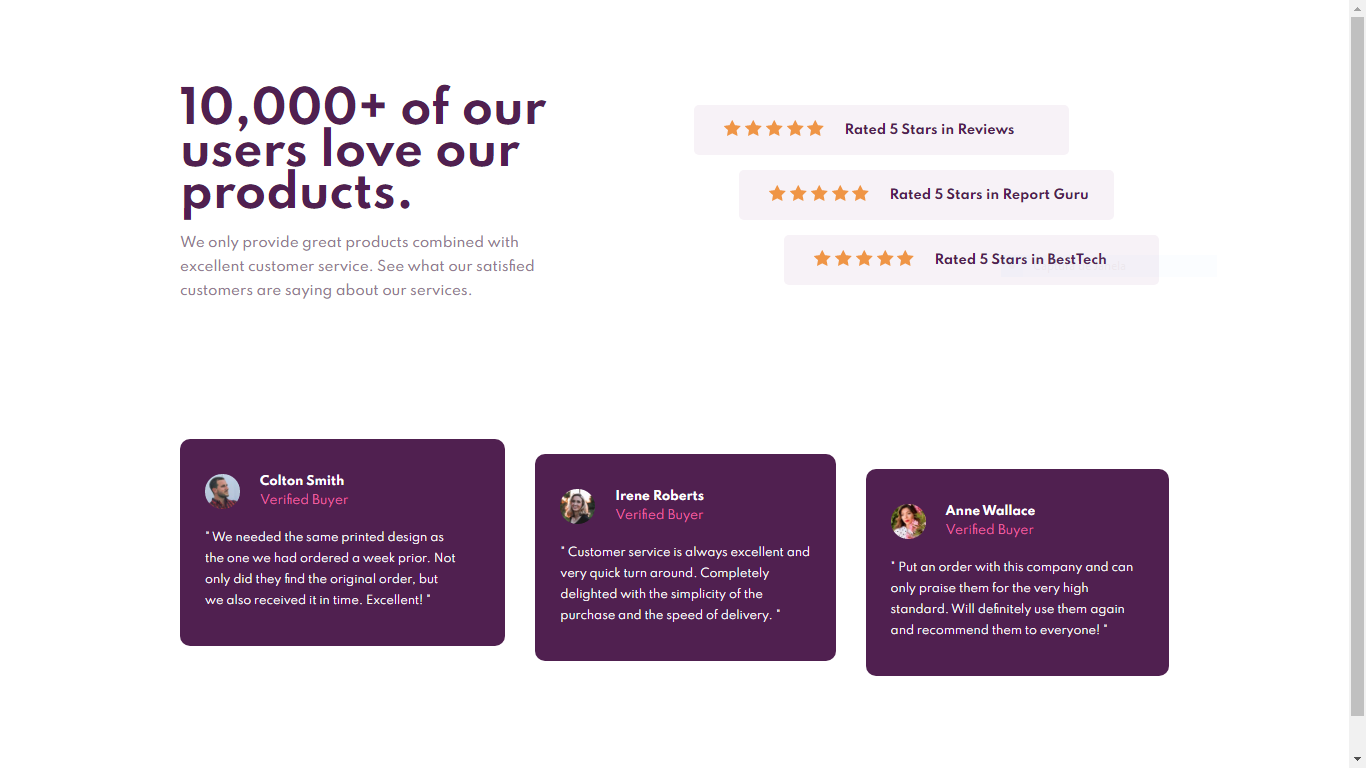
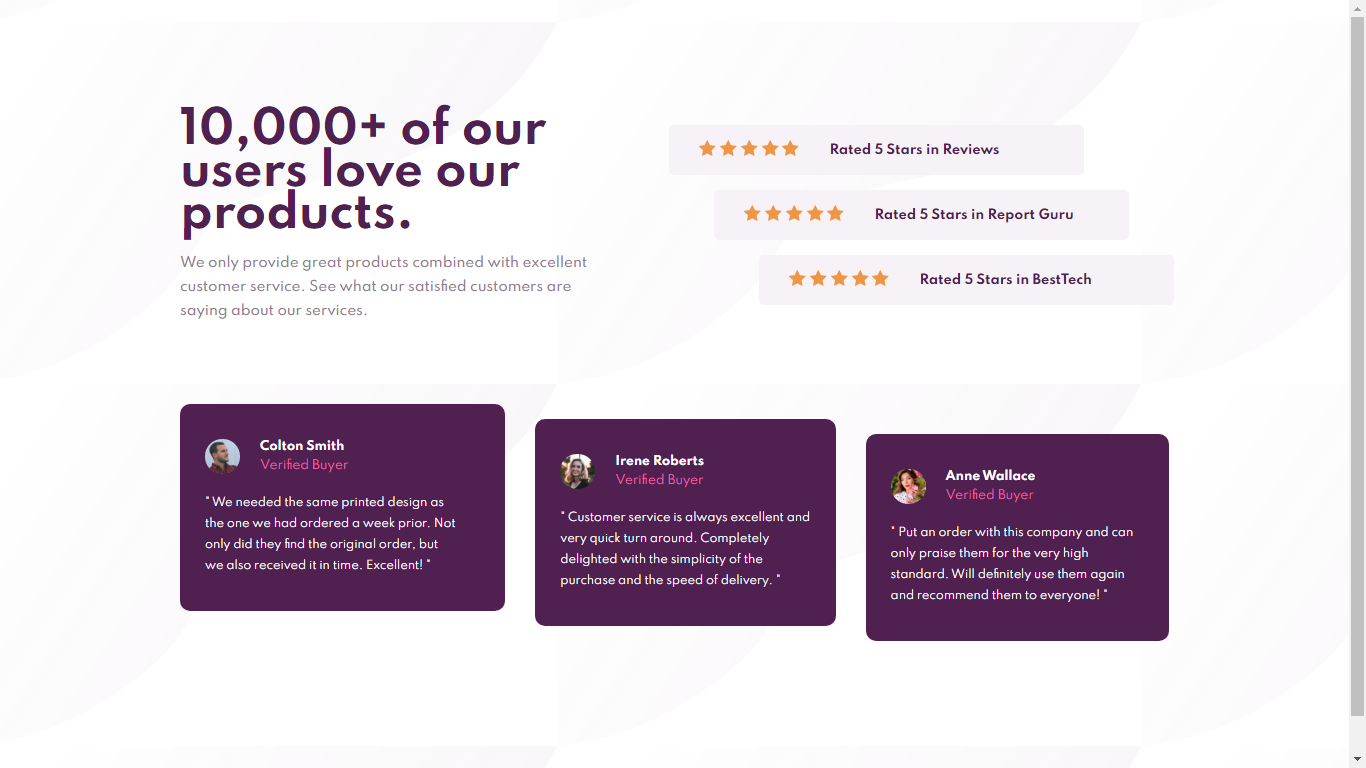
adjusted the gap between the heading and the buyers reviews

diff --git a/css/main.css b/css/main.css
@@ -11,7 +11,6 @@ body {
   background: url(../images/bg-pattern-top-mobile.svg), url(../images/bg-pattern-bottom-mobile.svg);
   background-position: right 50vw bottom 70vh, left 50vw top 70vh;
   background-repeat: no-repeat;
-  background-color: aqua;
 }
 
 .main-container {
@@ -104,10 +103,11 @@ body {
 }
 
 footer {
-  position: absolute;
+  position: relative;
   text-align: center;
   font-weight: 700;
-  bottom: 5px;
+  bottom: -15px;
+  padding-bottom: 10px !important;
   width: 100%;
   font-size: 0.7rem;
 }
@@ -141,20 +141,19 @@ footer a {
     border: 0 !important;
   }
   body {
-    height: 105vh;
+    height: 100vh;
     background: url(../images/bg-pattern-top-desktop.svg), url(../images/bg-pattern-bottom-desktop.svg) no-repeat;
     background-position: right 58vw bottom 50vh, left 30vw top 100vh;
-    background-repeat: no-repeat;
   }
   .main-container {
     text-align: left;
     display: grid;
     align-items: flex-start;
-    grid-template-columns: 1fr 1.3fr;
+    grid-template-columns: 1fr 1fr;
     grid-template-rows: 1fr 1fr;
+    padding: 110px 180px !important;
+    row-gap: 100px;
     height: 100vh;
-    padding: 90px 180px 0px !important;
-    row-gap: 80px;
   }
   .heading-container {
     display: flex;
@@ -174,22 +173,23 @@ footer a {
   .rates-container {
     position: relative;
     margin-top: 15px;
-    right: 10px;
+    right: 35px;
     row-gap: 15px;
     justify-self: flex-end;
   }
   .rates-container .rates-box {
     flex-direction: row;
     align-items: center;
+    justify-content: flex-start;
     height: 50px;
-    width: 100%;
+    width: 415px;
   }
   .rates-container .rates-box .review {
     font-size: 0.85rem;
-    padding-left: 20px !important;
+    padding-left: 0px !important;
   }
   .rates-container .rates-box .stars {
-    padding-left: 30px !important;
+    padding: 0px 30px !important;
   }
   .rates-container .reviews-rate {
     position: relative;

diff --git a/sass/main.scss b/sass/main.scss
@@ -7,7 +7,6 @@ body {
     url(../images/bg-pattern-bottom-mobile.svg);
   background-position: right 50vw bottom 70vh, left 50vw top 70vh;
   background-repeat: no-repeat;
-  background-color: aqua;
 }
 
 .main-container {
@@ -101,10 +100,11 @@ body {
 
 // FOOTER
 footer {
-  position: absolute;
+  position: relative;
   text-align: center;
   font-weight: 700;
-  bottom: 5px;
+  bottom: -15px;
+  padding-bottom: 10px !important;
   width: 100%;
   font-size: 0.7rem;
 
@@ -148,22 +148,21 @@ footer {
   }
 
   body {
-    height: 105vh;
+    height: 100vh;
     background: url(../images/bg-pattern-top-desktop.svg),
       url(../images/bg-pattern-bottom-desktop.svg) no-repeat;
     background-position: right 58vw bottom 50vh, left 30vw top 100vh;
-    background-repeat: no-repeat;
   }
 
   .main-container {
     text-align: left;
     display: grid;
     align-items: flex-start;
-    grid-template-columns: 1fr 1.3fr;
+    grid-template-columns: 1fr 1fr;
     grid-template-rows: 1fr 1fr;
+    padding: 110px 180px !important;
+    row-gap: 100px;
     height: 100vh;
-    padding: 90px 180px 0px !important;
-    row-gap: 80px;
   }
 
   // HEADING
@@ -188,23 +187,24 @@ footer {
   .rates-container {
     position: relative;
     margin-top: 15px;
-    right: 10px;
+    right: 35px;
     row-gap: 15px;
     justify-self: flex-end;
 
     .rates-box {
       flex-direction: row;
       align-items: center;
+      justify-content: flex-start;
       height: 50px;
-      width: 100%;
+      width: 415px;
 
       .review {
         font-size: 0.85rem;
-        padding-left: 20px !important;
+        padding-left: 0px !important;
       }
 
       .stars {
-        padding-left: 30px !important;
+        padding: 0px 30px !important;
       }
     }
     .reviews-rate {
